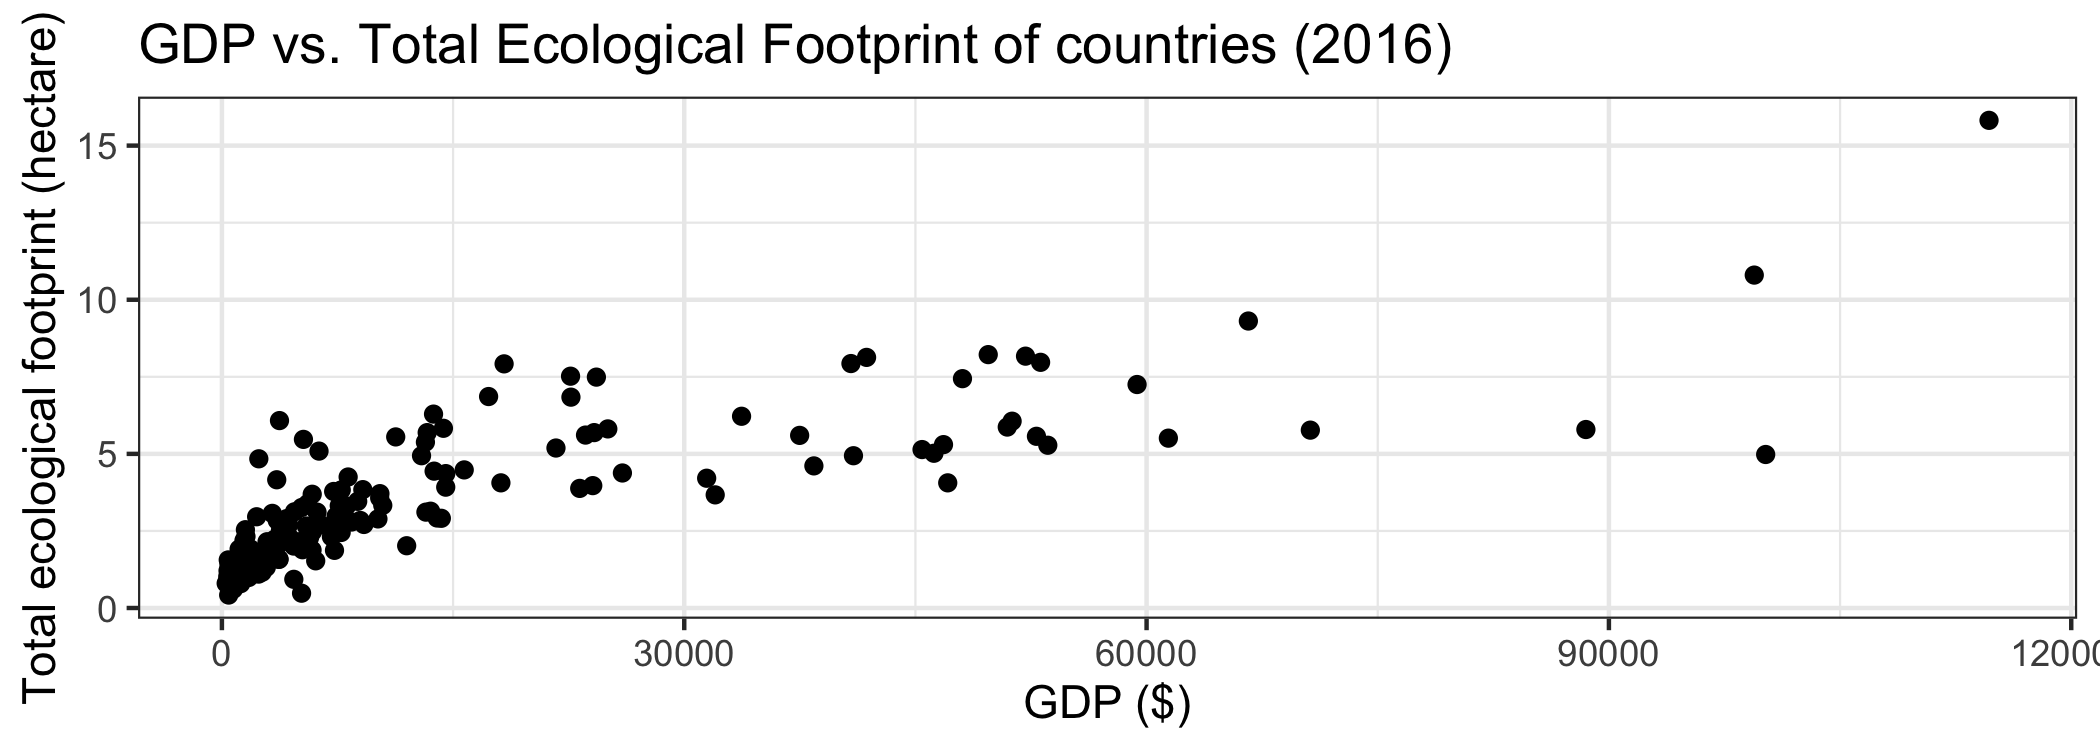
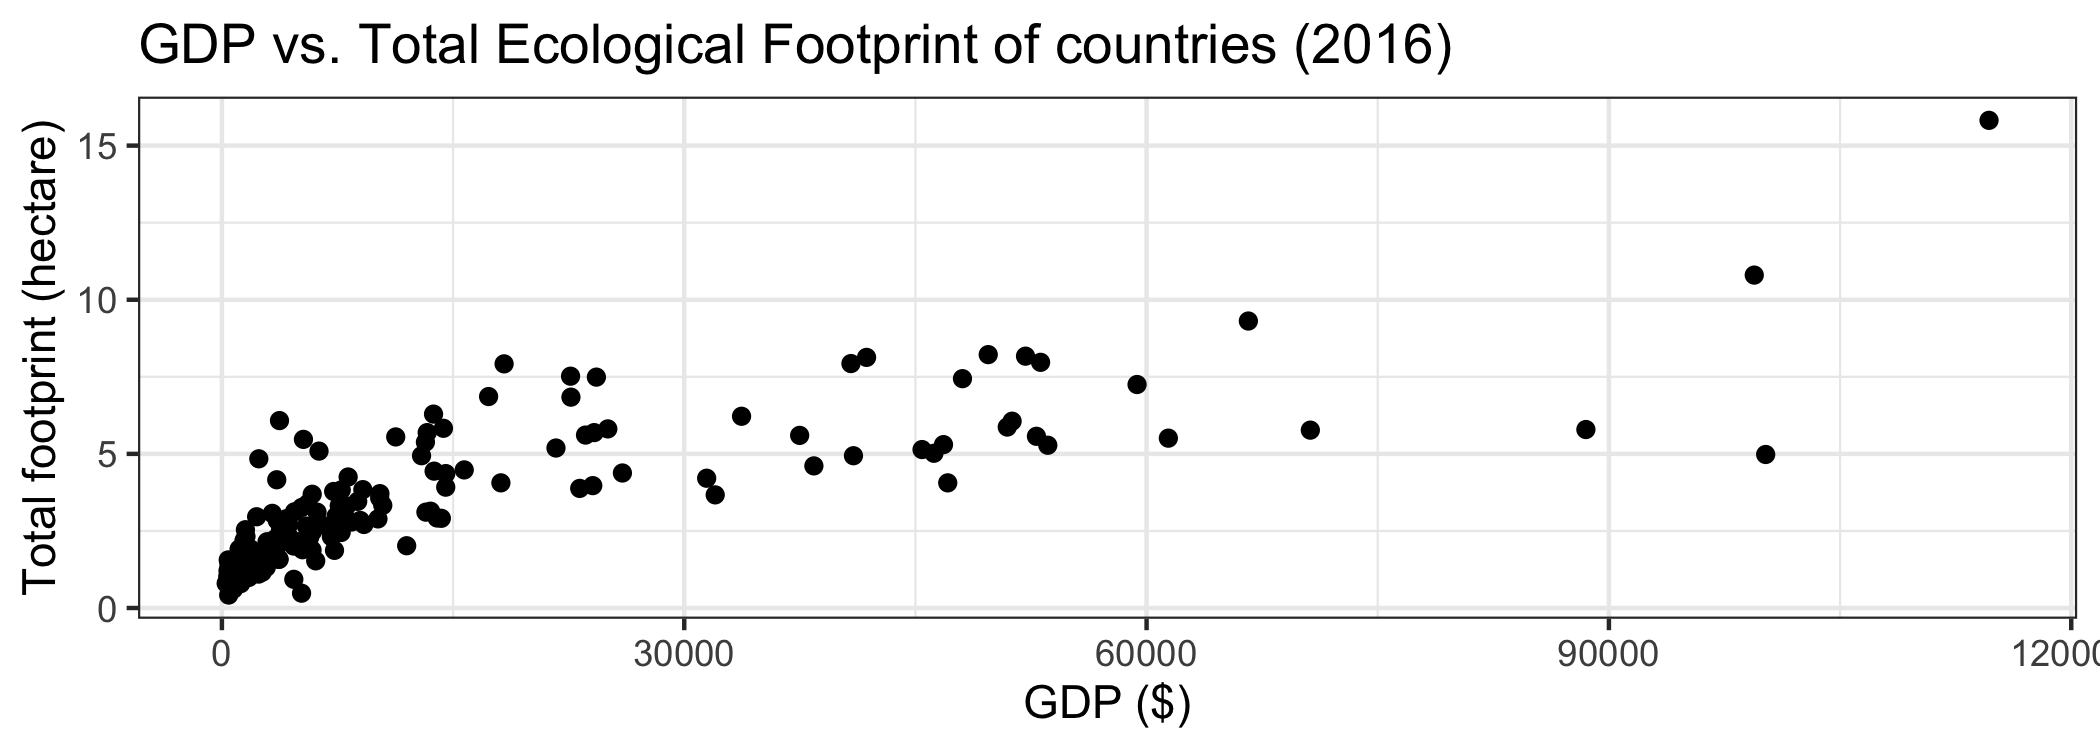
new label

Changed region(s): [[0.0, 0.0, 0.031, 0.9507]]

diff --git a/docs/slides/lec-slides/02-data-and-viz.html b/docs/slides/lec-slides/02-data-and-viz.html
@@ -34,11 +34,6 @@ layout: true
 
 
 
-class: middle, center
-
-## [Click for PDF of slides](02-data-and-viz.pdf)
-
----
 
 class: center, middle
 
@@ -115,7 +110,7 @@ A tool that allows for concisely describing the components of a graphic:
 ggplot(data = countries_footprint, mapping = aes(x = GDP, y = Total)) +
 * geom_point() +
   labs(title = "GDP vs. Total Ecological Footprint of countries (2016)",
-       x = "GDP ($)", y = "Total ecological footprint (hectare)")
+       x = "GDP ($)", y = "Total footprint (hectare)")
 ```
 
 ```
@@ -133,7 +128,7 @@ ggplot(data = countries_footprint, mapping = aes(x = GDP, y = Total)) +
 *ggplot(data = countries_footprint, mapping = aes(x = GDP, y = Total)) +
   geom_point() + 
   labs(title = "GDP vs. Total Ecological Footprint of countries (2016)",
-       x = "GDP ($)", y = "Total ecological footprint (hectare)")
+       x = "GDP ($)", y = "Total footprint (hectare)")
 ```
 
 ```
@@ -152,7 +147,7 @@ ggplot(data = countries_footprint, mapping = aes(x = GDP, y = Total)) +
 *ggplot(data = countries_footprint, mapping = aes(x = GDP, y = Total)) +
 * geom_point() +
   labs(title = "GDP vs. Total Ecological Footprint of countries (2016)",
-       x = "GDP ($)", y = "Total ecological footprint (hectare)")
+       x = "GDP ($)", y = "Total footprint (hectare)")
 ```
 
 ```
@@ -171,7 +166,7 @@ ggplot(data = countries_footprint, mapping = aes(x = GDP, y = Total)) +
 ggplot(data = countries_footprint, mapping = aes(x = GDP, y = Total)) +
 * geom_point() +
   labs(title = "GDP vs. Total Ecological Footprint of countries (2016)",
-       x = "GDP ($)", y = "Total ecological footprint (hectare)")
+       x = "GDP ($)", y = "Total footprint (hectare)")
 ```
 
 ```
@@ -190,7 +185,7 @@ ggplot(data = countries_footprint, mapping = aes(x = GDP, y = Total)) +
   geom_point() +
 * geom_smooth() +
   labs(title = "GDP vs. Total Ecological Footprint of countries (2016)",
-       x = "GDP ($)", y = "Total ecological footprint (hectare)")
+       x = "GDP ($)", y = "Total footprint (hectare)")
 ```
 
 &lt;img src="02-data-and-viz_files/figure-html/unnamed-chunk-8-1.png" style="display: block; margin: auto;" /&gt;
@@ -253,18 +248,18 @@ countries_footprint
 
 ```
 ## # A tibble: 188 x 14
-##    Country Region Population   HDI    GDP Cropland Grazing Forest Carbon  Fish
-##    &lt;chr&gt;   &lt;chr&gt;       &lt;dbl&gt; &lt;dbl&gt;  &lt;dbl&gt;    &lt;dbl&gt;   &lt;dbl&gt;  &lt;dbl&gt;  &lt;dbl&gt; &lt;dbl&gt;
-##  1 Afghan… Middl…      29.8   0.46   615.     0.3     0.2   0.08    0.18  0   
-##  2 Albania North…       3.16  0.73  4534.     0.78    0.22  0.25    0.87  0.02
-##  3 Algeria Africa      38.5   0.73  5431.     0.6     0.16  0.17    1.14  0.01
-##  4 Angola  Africa      20.8   0.52  4666.     0.33    0.15  0.12    0.2   0.09
-##  5 Antigu… Latin…       0.09  0.78 13205.    NA      NA    NA      NA    NA   
-##  6 Argent… Latin…      41.1   0.83 13540      0.78    0.79  0.290   1.08  0.1 
-##  7 Armenia Middl…       2.97  0.73  3426.     0.74    0.18  0.34    0.89  0.01
-##  8 Aruba   Latin…       0.1  NA       NA     NA      NA    NA      NA    NA   
-##  9 Austra… Asia-…      23.0   0.93 66604.     2.68    0.63  0.89    4.85  0.11
-## 10 Austria Europ…       8.46  0.88 51274.     0.82    0.27  0.63    4.14  0.06
+##    Country  Region  Population   HDI    GDP Cropland Grazing Forest Carbon  Fish
+##    &lt;chr&gt;    &lt;chr&gt;        &lt;dbl&gt; &lt;dbl&gt;  &lt;dbl&gt;    &lt;dbl&gt;   &lt;dbl&gt;  &lt;dbl&gt;  &lt;dbl&gt; &lt;dbl&gt;
+##  1 Afghani… Middle…      29.8   0.46   615.     0.3     0.2    0.08   0.18  0   
+##  2 Albania  Northe…       3.16  0.73  4534.     0.78    0.22   0.25   0.87  0.02
+##  3 Algeria  Africa       38.5   0.73  5431.     0.6     0.16   0.17   1.14  0.01
+##  4 Angola   Africa       20.8   0.52  4666.     0.33    0.15   0.12   0.2   0.09
+##  5 Antigua… Latin …       0.09  0.78 13205.    NA      NA     NA     NA    NA   
+##  6 Argenti… Latin …      41.1   0.83 13540      0.78    0.79   0.29   1.08  0.1 
+##  7 Armenia  Middle…       2.97  0.73  3426.     0.74    0.18   0.34   0.89  0.01
+##  8 Aruba    Latin …       0.1  NA       NA     NA      NA     NA     NA    NA   
+##  9 Austral… Asia-P…      23.0   0.93 66604.     2.68    0.63   0.89   4.85  0.11
+## 10 Austria  Europe…       8.46  0.88 51274.     0.82    0.27   0.63   4.14  0.06
 ## # … with 178 more rows, and 4 more variables: Total &lt;dbl&gt;,
 ## #   EarthsRequired &lt;dbl&gt;, CountriesRequired &lt;dbl&gt;, DataQuality &lt;chr&gt;
 ```
@@ -282,22 +277,22 @@ glimpse(countries_footprint)
 ```
 
 ```
-## Observations: 188
-## Variables: 14
-## $ Country           &lt;chr&gt; "Afghanistan", "Albania", "Algeria", "Angola", "Ant…
-## $ Region            &lt;chr&gt; "Middle East/Central Asia", "Northern/Eastern Europ…
-## $ Population        &lt;dbl&gt; 29.82, 3.16, 38.48, 20.82, 0.09, 41.09, 2.97, 0.10,…
-## $ HDI               &lt;dbl&gt; 0.46, 0.73, 0.73, 0.52, 0.78, 0.83, 0.73, NA, 0.93,…
-## $ GDP               &lt;dbl&gt; 614.66, 4534.37, 5430.57, 4665.91, 13205.10, 13540.…
-## $ Cropland          &lt;dbl&gt; 0.30, 0.78, 0.60, 0.33, NA, 0.78, 0.74, NA, 2.68, 0…
-## $ Grazing           &lt;dbl&gt; 0.20, 0.22, 0.16, 0.15, NA, 0.79, 0.18, NA, 0.63, 0…
-## $ Forest            &lt;dbl&gt; 0.08, 0.25, 0.17, 0.12, NA, 0.29, 0.34, NA, 0.89, 0…
-## $ Carbon            &lt;dbl&gt; 0.18, 0.87, 1.14, 0.20, NA, 1.08, 0.89, NA, 4.85, 4…
-## $ Fish              &lt;dbl&gt; 0.00, 0.02, 0.01, 0.09, NA, 0.10, 0.01, NA, 0.11, 0…
-## $ Total             &lt;dbl&gt; 0.79, 2.21, 2.12, 0.93, 5.38, 3.14, 2.23, 11.88, 9.…
-## $ EarthsRequired    &lt;dbl&gt; 0.46, 1.27, 1.22, 0.54, 3.11, 1.82, 1.29, 6.86, 5.3…
-## $ CountriesRequired &lt;dbl&gt; 1.60, 1.87, 3.61, 0.37, 5.70, 0.45, 2.52, 20.69, 0.…
-## $ DataQuality       &lt;chr&gt; "High", "High", "Medium", "High", "Low", "High", "L…
+## Rows: 188
+## Columns: 14
+## $ Country           &lt;chr&gt; "Afghanistan", "Albania", "Algeria", "Angola", "Anti…
+## $ Region            &lt;chr&gt; "Middle East/Central Asia", "Northern/Eastern Europe…
+## $ Population        &lt;dbl&gt; 29.82, 3.16, 38.48, 20.82, 0.09, 41.09, 2.97, 0.10, …
+## $ HDI               &lt;dbl&gt; 0.46, 0.73, 0.73, 0.52, 0.78, 0.83, 0.73, NA, 0.93, …
+## $ GDP               &lt;dbl&gt; 614.66, 4534.37, 5430.57, 4665.91, 13205.10, 13540.0…
+## $ Cropland          &lt;dbl&gt; 0.30, 0.78, 0.60, 0.33, NA, 0.78, 0.74, NA, 2.68, 0.…
+## $ Grazing           &lt;dbl&gt; 0.20, 0.22, 0.16, 0.15, NA, 0.79, 0.18, NA, 0.63, 0.…
+## $ Forest            &lt;dbl&gt; 0.08, 0.25, 0.17, 0.12, NA, 0.29, 0.34, NA, 0.89, 0.…
+## $ Carbon            &lt;dbl&gt; 0.18, 0.87, 1.14, 0.20, NA, 1.08, 0.89, NA, 4.85, 4.…
+## $ Fish              &lt;dbl&gt; 0.00, 0.02, 0.01, 0.09, NA, 0.10, 0.01, NA, 0.11, 0.…
+## $ Total             &lt;dbl&gt; 0.79, 2.21, 2.12, 0.93, 5.38, 3.14, 2.23, 11.88, 9.3…
+## $ EarthsRequired    &lt;dbl&gt; 0.46, 1.27, 1.22, 0.54, 3.11, 1.82, 1.29, 6.86, 5.37…
+## $ CountriesRequired &lt;dbl&gt; 1.60, 1.87, 3.61, 0.37, 5.70, 0.45, 2.52, 20.69, 0.5…
+## $ DataQuality       &lt;chr&gt; "High", "High", "Medium", "High", "Low", "High", "Lo…
 ```
 
 ---
